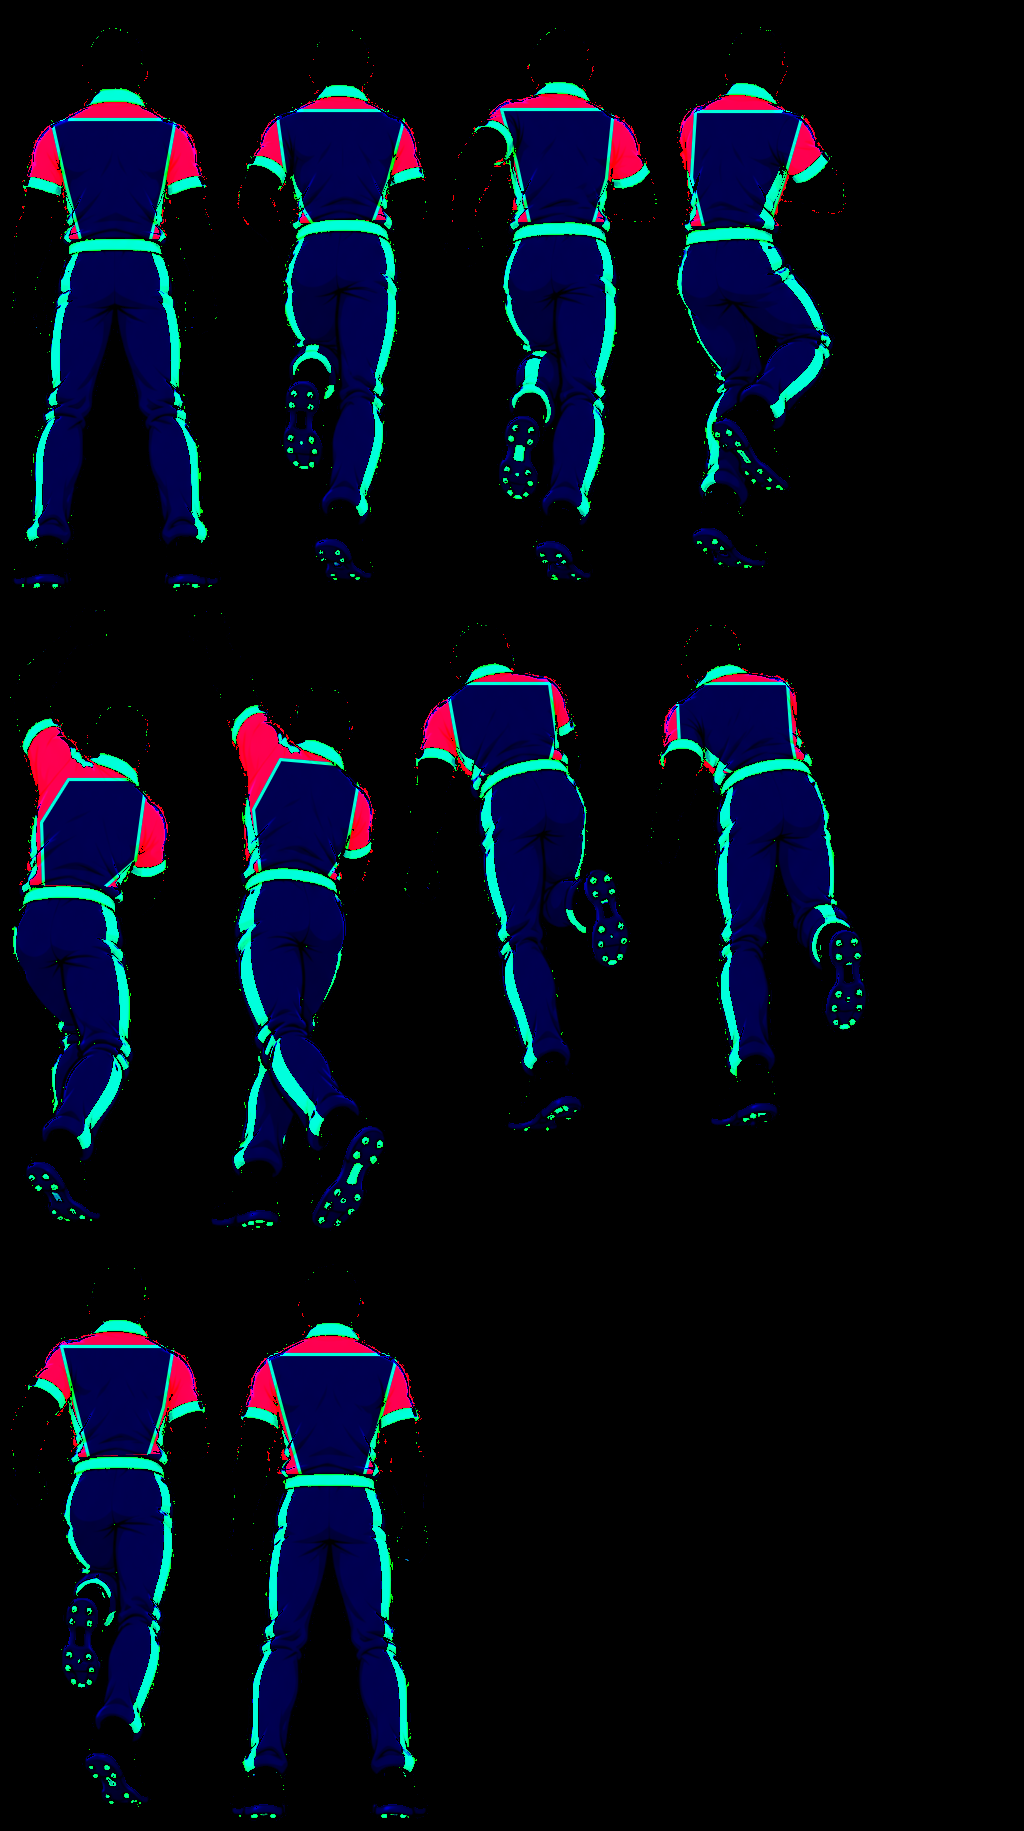
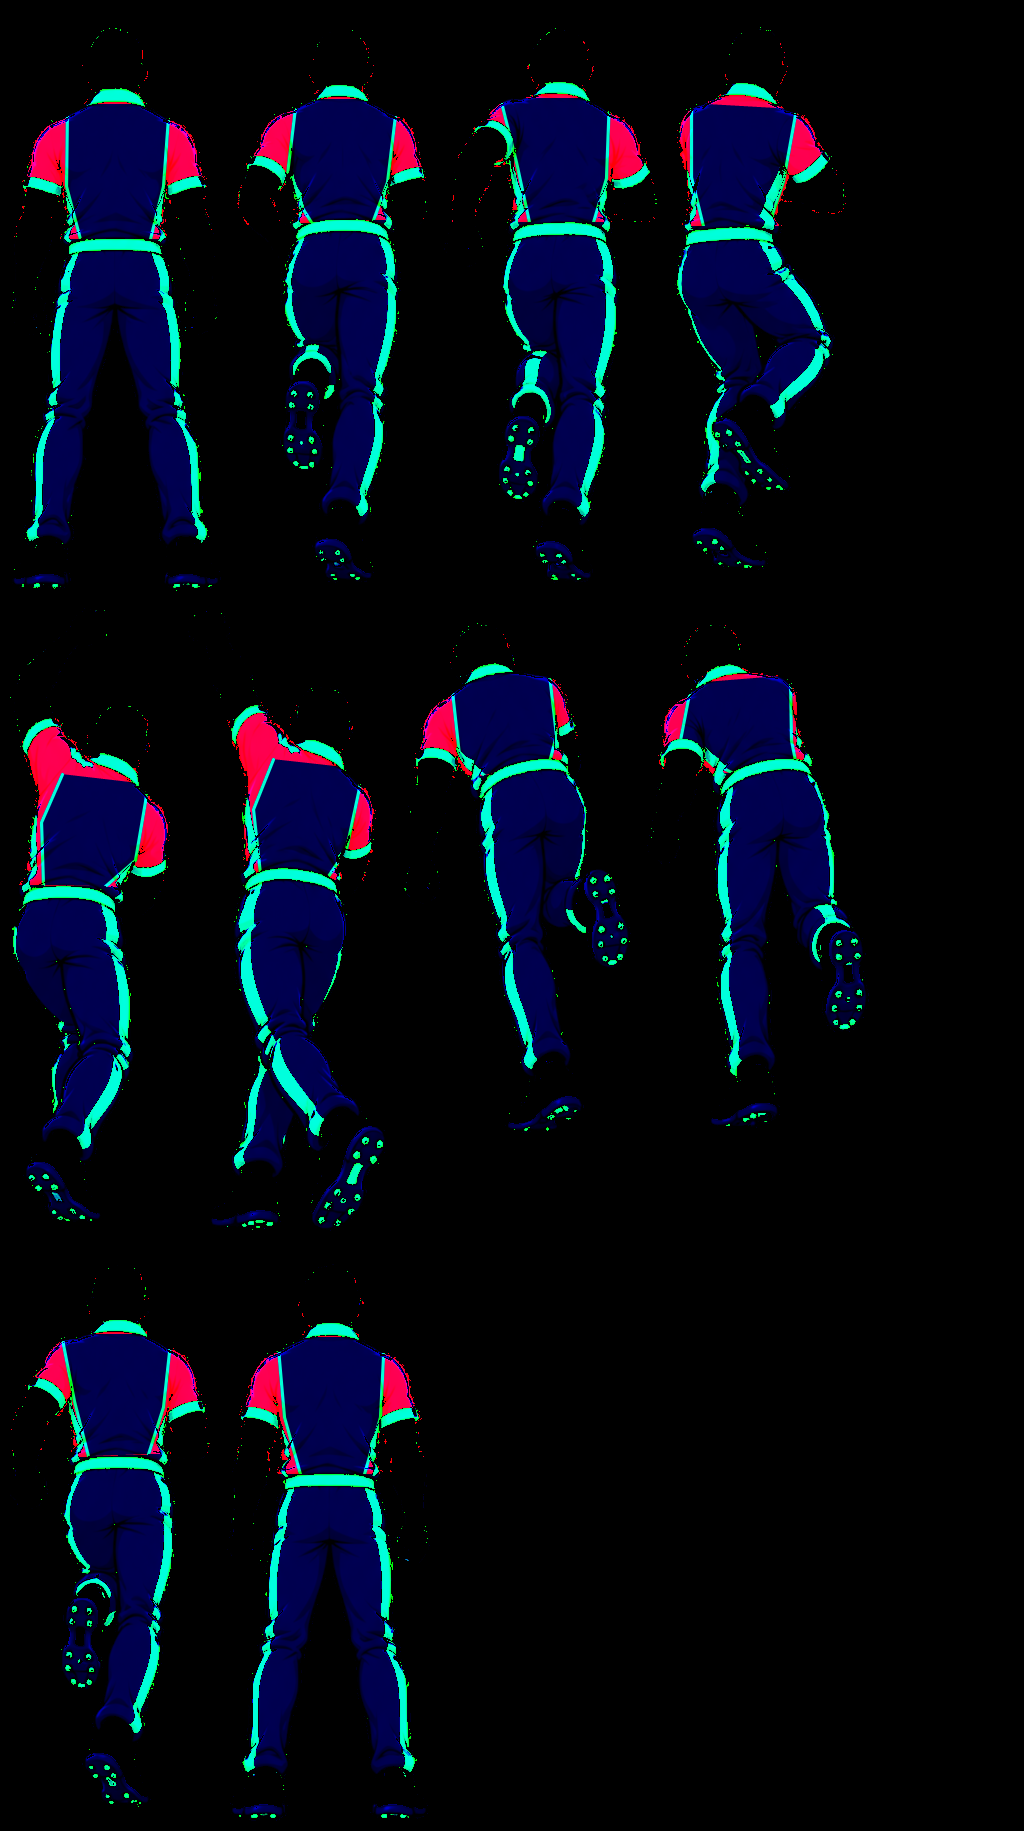
Fast bowler's back: main colour up to the collar, panel wide enough for the longest names
Claude-Session: https://claude.ai/code/session_01NK7tbrKg5PdA6fuyEUPXLd

diff --git a/js/kitsheets.js b/js/kitsheets.js
@@ -2,4 +2,4 @@
 // [x, y, w, h, feet x, feet y] in sheet order; place: the crest (front: [x, y, size, squash x,
 // squash y, tilt]) or the name-and-number print (back: [x, y, width, squash x, squash y, tilt,
 // name dx, dy, number dx, dy]) per frame; shading references for the repaint.
-export const KIT_SHEETS = {"front":{"frames":[[4,4,227,609,115.7,602],[235,4,204,603,108.5,596],[443,4,232,595,100.6,588],[679,4,181,601,90.4,594],[4,617,184,670,98.7,663],[192,617,204,657,107.8,650],[400,617,234,531,161.4,524],[638,617,200,532,104.9,525],[4,1291,201,557,90.7,550],[209,1291,216,579,105.9,572]],"place":[[153,167,36,1,1,0],[377,154,35,1,1,0],[591,154,35,1,1,0],[795,159,32,0.9,1,0],[142,863,31,0.95,1,5],[363,868,31,0.95,1,5],[549,761,34,1,0.85,0],[754,762,31,0.95,0.85,-5],[148,1439,35,1,1,0],[359,1454,36,1,1,0]],"refPx":580,"suit":[0.0376,0.2954,0.587],"trim":[0.5314,0.8456,0.9029],"skin":0.7306,"tones":[0.2955,0.2955,0.8423],"hair":{"beard_full":0.2269,"beard_goatee":0.1998,"beard_long":0.1906,"bun":0.2773,"buzz":0.2963,"cap":0.2815,"curly":0.2799,"dreads":0.2727,"long":0.2593,"messy":0.2999,"part":0.3383,"ponytail":0.2813,"spiky":0.2762},"size":[1024,1874]},"back":{"frames":[[4,4,223,593,111.2,586],[231,4,203,585,111.9,578],[438,4,226,585,125.1,578],[668,4,184,572,61.0,565],[4,601,172,628,61.9,621],[180,601,213,636,106.9,629],[397,601,240,538,146.8,531],[641,601,234,534,104.0,527],[4,1241,213,572,115.0,565],[221,1241,215,586,107.6,579]],"place":[[116.6,158.1,88.0,1.0,1.0,0.4,0,0,0,0],[343.2,149.0,88.0,1.0,1.0,0.8,0,0,0,0],[558.0,148.9,88.0,1.0,1.0,0.0,0,0,0,0],[738,149.2,84.5,0.88,1.0,2,-4,0,-2,0],[95.9,814.9,81.0,0.85,0.95,15.1,0,0,0,0],[306.5,801.6,81.0,0.85,0.95,10.9,0,0,0,0],[502,714.2,86.2,1.0,0.75,-6,0,0,0,0],[741,714.7,86.2,1.0,0.75,-6,0,0,0,0],[117.6,1385.2,88.0,1.0,1.0,0.4,0,0,0,0],[331.2,1393.8,89.8,1.0,1.0,0.8,0,0,0,0]],"refPx":563,"suit":[0.032,0.3087,0.5514],"trim":[0.5231,0.8489,0.9123],"skin":0.7332,"tones":[0.3087,0.3087,0.8455],"hair":{"bun":0.2553,"buzz":0.2918,"cap":0.2709,"curly":0.2702,"dreads":0.2718,"long":0.2647,"messy":0.2757,"part":0.2824,"ponytail":0.2667,"spiky":0.2812},"size":[1024,1831]},"spin-front":{"frames":[[4,4,182,471,90.8,464],[190,4,175,474,103.6,467],[369,4,172,473,91.2,466],[545,4,173,483,87.0,476],[722,4,165,515,62.2,508],[4,523,164,565,80.0,558],[172,523,152,564,71.3,544],[328,523,165,547,53.2,528],[497,523,255,478,85.7,461],[756,523,173,413,62.2,400],[4,1092,264,385,95.9,378],[272,1092,180,405,108.1,398],[456,1092,144,425,76.3,418],[604,1092,179,431,74.7,424],[787,1092,192,438,94.7,431]],"place":[[133,134,26,1,1,0],[324,133,24,1,1,0],[503,130,24,1,1,0],[663,127,24,1,1,0],[848,180,24,1,1,0],[145,711,22,0.9,1,0],[268,717,21,0.9,1,0],[456,715,21,0.9,1,0],[646,705,20,0.9,0.9,10],[872,632,20,0.9,0.85,0],[118,1191,19,0.9,0.85,0],[368,1192,21,1,0.9,0],[524,1199,22,1,0.95,0],[728,1206,26,1,1,0],[918,1204,26,1,1,0]],"refPx":441,"suit":[0.0299,0.3355,0.4715],"trim":[0.548,0.8593,0.9122],"skin":0.7273,"tones":[0.341,0.154,0.8608],"hair":{"beard_full":0.1972,"beard_goatee":0.2001,"beard_long":0.2064,"bun":0.2433,"buzz":0.241,"cap":0.2898,"curly":0.2653,"dreads":0.2535,"long":0.2468,"messy":0.2721,"part":0.2843,"ponytail":0.2781,"spiky":0.2609},"size":[1024,1534]},"spin-back":{"frames":[[4,4,205,533,100.3,526],[213,4,201,526,110.7,519],[418,4,214,510,122.2,503],[636,4,168,520,54.4,513],[808,4,157,568,64.3,561],[4,576,174,536,56.4,529],[182,576,168,528,67.2,521],[354,576,165,520,59.7,498],[523,576,204,489,64.8,467],[731,576,195,427,99.9,420],[4,1116,270,378,98.4,371],[278,1116,189,392,97.5,385],[471,1116,207,396,98.1,389],[682,1116,185,397,98.2,390],[4,1517,193,401,95.6,394]],"place":[[110,150,72.0,1,1,0,0,0,0,0],[326,138,72.0,1,1,0,0,0,0,0],[539,138,72.0,0.95,1,0,0,0,0,0],[711,141,72.0,0.95,1,11,0,0,0,0],[894,208,72.0,0.95,1,5,0,0,0,0],[100,760,72.0,0.95,1,10,0,0,0,0],[266,753,72.0,0.95,1,10,0,0,0,0],[451,742,72.0,0.95,0.95,18,0,0,0,0],[637,718,72.0,0.95,0.8,20,0,0,0,0],[853,677,72.0,0.95,0.8,12,0,0,0,0],[115,1188,72.0,1,0.7,-6,0,0,0,0],[362,1201,72.0,1,0.75,-10,0,0,0,0],[558,1210,72.0,1,0.85,-6,0,0,0,0],[773,1218,72.0,1,1,0,0,0,0,0],[104,1643,72.0,1,1,0,0,0,0,0]],"refPx":502,"suit":[0.0255,0.3304,0.4621],"trim":[0.5425,0.8472,0.9129],"skin":0.735,"tones":[0.3359,0.1507,0.8497],"hair":{"bun":0.2768,"buzz":0.2522,"cap":0.3009,"curly":0.2524,"dreads":0.3474,"long":0.2919,"messy":0.2526,"part":0.2321,"ponytail":0.2864,"spiky":0.2346},"size":[1024,1922]}};
+export const KIT_SHEETS = {"front":{"frames":[[4,4,227,609,115.7,602],[235,4,204,603,108.5,596],[443,4,232,595,100.6,588],[679,4,181,601,90.4,594],[4,617,184,670,98.7,663],[192,617,204,657,107.8,650],[400,617,234,531,161.4,524],[638,617,200,532,104.9,525],[4,1291,201,557,90.7,550],[209,1291,216,579,105.9,572]],"place":[[153,167,36,1,1,0],[377,154,35,1,1,0],[591,154,35,1,1,0],[795,159,32,0.9,1,0],[142,863,31,0.95,1,5],[363,868,31,0.95,1,5],[549,761,34,1,0.85,0],[754,762,31,0.95,0.85,-5],[148,1439,35,1,1,0],[359,1454,36,1,1,0]],"refPx":580,"suit":[0.0376,0.2954,0.587],"trim":[0.5314,0.8456,0.9029],"skin":0.7306,"tones":[0.2955,0.2955,0.8423],"hair":{"beard_full":0.2269,"beard_goatee":0.1998,"beard_long":0.1906,"bun":0.2773,"buzz":0.2963,"cap":0.2815,"curly":0.2799,"dreads":0.2727,"long":0.2593,"messy":0.2999,"part":0.3383,"ponytail":0.2813,"spiky":0.2762},"size":[1024,1874]},"back":{"frames":[[4,4,223,593,111.2,586],[231,4,203,585,111.9,578],[438,4,226,585,125.1,578],[668,4,184,572,61.0,565],[4,601,172,628,61.9,621],[180,601,213,636,106.9,629],[397,601,240,538,146.8,531],[641,601,234,534,104.0,527],[4,1241,213,572,115.0,565],[221,1241,215,586,107.6,579]],"place":[[116.6,158.1,88.0,1.0,1.0,0.4,0,0,0,0],[343.2,149.0,88.0,1.0,1.0,0.8,0,0,0,0],[558.0,148.9,88.0,1.0,1.0,0.0,0,0,0,0],[738,149.2,84.5,0.88,1.0,2,-4,0,-2,0],[95.9,814.9,81.0,0.85,0.95,15.1,0,0,0,0],[306.5,801.6,81.0,0.85,0.95,10.9,0,0,0,0],[502,714.2,86.2,1.0,0.75,-6,0,0,0,0],[741,714.7,86.2,1.0,0.75,-6,0,0,0,0],[117.6,1385.2,88.0,1.0,1.0,0.4,0,0,0,0],[331.2,1393.8,89.8,1.0,1.0,0.8,0,0,0,0]],"refPx":563,"suit":[0.032,0.3087,0.5514],"trim":[0.5231,0.8489,0.9123],"skin":0.7332,"tones":[0.3089,0.3089,0.8455],"hair":{"bun":0.2553,"buzz":0.2918,"cap":0.2709,"curly":0.2702,"dreads":0.2718,"long":0.2647,"messy":0.2757,"part":0.2824,"ponytail":0.2667,"spiky":0.2812},"size":[1024,1831]},"spin-front":{"frames":[[4,4,182,471,90.8,464],[190,4,175,474,103.6,467],[369,4,172,473,91.2,466],[545,4,173,483,87.0,476],[722,4,165,515,62.2,508],[4,523,164,565,80.0,558],[172,523,152,564,71.3,544],[328,523,165,547,53.2,528],[497,523,255,478,85.7,461],[756,523,173,413,62.2,400],[4,1092,264,385,95.9,378],[272,1092,180,405,108.1,398],[456,1092,144,425,76.3,418],[604,1092,179,431,74.7,424],[787,1092,192,438,94.7,431]],"place":[[133,134,26,1,1,0],[324,133,24,1,1,0],[503,130,24,1,1,0],[663,127,24,1,1,0],[848,180,24,1,1,0],[145,711,22,0.9,1,0],[268,717,21,0.9,1,0],[456,715,21,0.9,1,0],[646,705,20,0.9,0.9,10],[872,632,20,0.9,0.85,0],[118,1191,19,0.9,0.85,0],[368,1192,21,1,0.9,0],[524,1199,22,1,0.95,0],[728,1206,26,1,1,0],[918,1204,26,1,1,0]],"refPx":441,"suit":[0.0299,0.3355,0.4715],"trim":[0.548,0.8593,0.9122],"skin":0.7273,"tones":[0.341,0.154,0.8608],"hair":{"beard_full":0.1972,"beard_goatee":0.2001,"beard_long":0.2064,"bun":0.2433,"buzz":0.241,"cap":0.2898,"curly":0.2653,"dreads":0.2535,"long":0.2468,"messy":0.2721,"part":0.2843,"ponytail":0.2781,"spiky":0.2609},"size":[1024,1534]},"spin-back":{"frames":[[4,4,205,533,100.3,526],[213,4,201,526,110.7,519],[418,4,214,510,122.2,503],[636,4,168,520,54.4,513],[808,4,157,568,64.3,561],[4,576,174,536,56.4,529],[182,576,168,528,67.2,521],[354,576,165,520,59.7,498],[523,576,204,489,64.8,467],[731,576,195,427,99.9,420],[4,1116,270,378,98.4,371],[278,1116,189,392,97.5,385],[471,1116,207,396,98.1,389],[682,1116,185,397,98.2,390],[4,1517,193,401,95.6,394]],"place":[[110,150,72.0,1,1,0,0,0,0,0],[326,138,72.0,1,1,0,0,0,0,0],[539,138,72.0,0.95,1,0,0,0,0,0],[711,141,72.0,0.95,1,11,0,0,0,0],[894,208,72.0,0.95,1,5,0,0,0,0],[100,760,72.0,0.95,1,10,0,0,0,0],[266,753,72.0,0.95,1,10,0,0,0,0],[451,742,72.0,0.95,0.95,18,0,0,0,0],[637,718,72.0,0.95,0.8,20,0,0,0,0],[853,677,72.0,0.95,0.8,12,0,0,0,0],[115,1188,72.0,1,0.7,-6,0,0,0,0],[362,1201,72.0,1,0.75,-10,0,0,0,0],[558,1210,72.0,1,0.85,-6,0,0,0,0],[773,1218,72.0,1,1,0,0,0,0,0],[104,1643,72.0,1,1,0,0,0,0,0]],"refPx":502,"suit":[0.0255,0.3304,0.4621],"trim":[0.5425,0.8472,0.9129],"skin":0.735,"tones":[0.3359,0.1507,0.8497],"hair":{"bun":0.2768,"buzz":0.2522,"cap":0.3009,"curly":0.2524,"dreads":0.3474,"long":0.2919,"messy":0.2526,"part":0.2321,"ponytail":0.2864,"spiky":0.2346},"size":[1024,1922]}};
